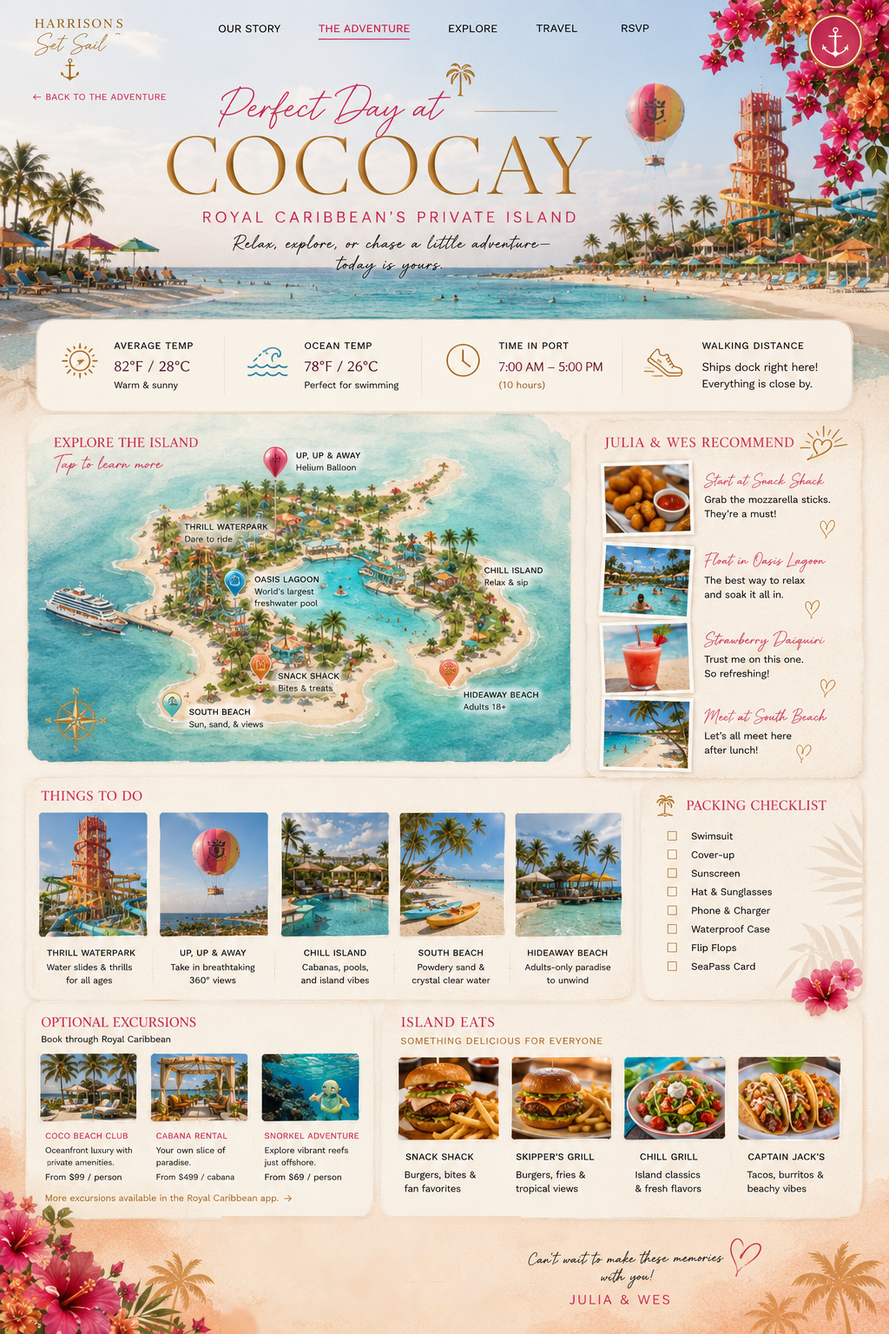
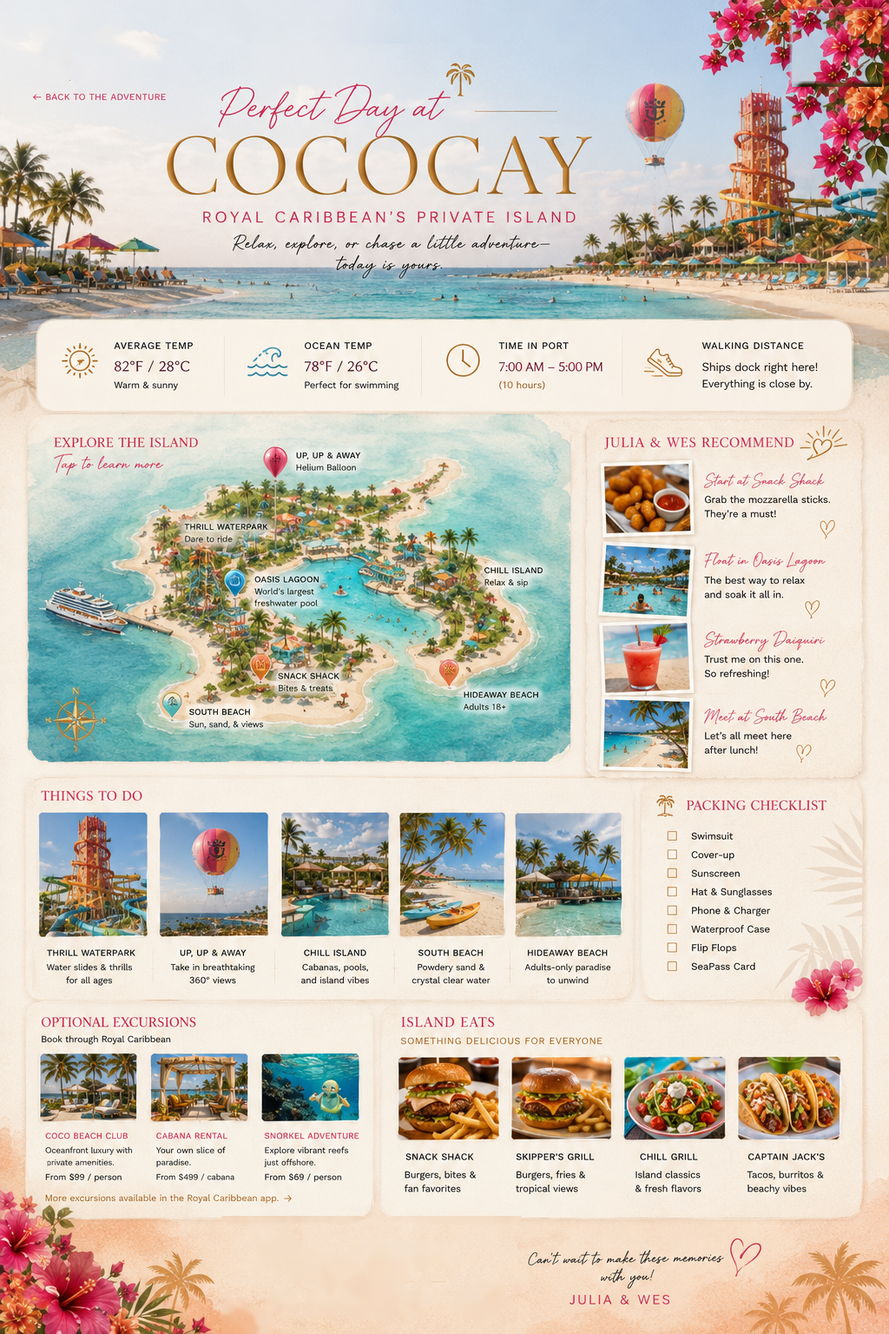
v34majorWHedits

diff --git a/travel.html b/travel.html
@@ -1,5 +1,5 @@
 <!doctype html><html lang="en"><head><meta charset="utf-8"><meta name="viewport" content="width=device-width,initial-scale=1"><title>Travel & Booking | Julia & Wesley</title>
-<link rel="preconnect" href="https://fonts.googleapis.com"><link rel="preconnect" href="https://fonts.gstatic.com" crossorigin><link href="https://fonts.googleapis.com/css2?family=Great+Vibes&family=Playfair+Display:ital,wght@0,600;0,700;1,600&display=swap" rel="stylesheet"><link rel="stylesheet" href="css/site.css?v=33">
+<link rel="preconnect" href="https://fonts.googleapis.com"><link rel="preconnect" href="https://fonts.gstatic.com" crossorigin><link href="https://fonts.googleapis.com/css2?family=Great+Vibes&family=Playfair+Display:ital,wght@0,600;0,700;1,600&display=swap" rel="stylesheet"><link rel="stylesheet" href="css/site.css?v=34">
 </head><body class="tv-body">
 <nav class="site-nav" aria-label="Primary navigation">
   <a class="sn-logo" href="index.html?skip=1"><span class="word">HARRISONS</span><span class="script">Set Sail</span><span class="anch">⚓</span></a>
@@ -9,6 +9,7 @@
 <main class="page-art"><img src="assets/approved/travel-hero-v2.png" alt="Let's Get You On Board — travel and booking for Julia and Wesley's wedding cruise"></main>
 
 <main class="tv-wrap">
+  <p class="tv-rsvp-note">🛳 This page is just for booking your cruise room — the wedding RSVP is on the <a href="rsvp.html">RSVP page</a>!</p>
   <div class="tv-row tv-row-steps">
     <section class="tv-card tv-step1">
       <p class="tv-step-label">Step 1</p>
@@ -27,18 +28,11 @@
         <article><img src="assets/staterooms/balcony.jpg" alt="Balcony stateroom"><h3>Balcony</h3><p>Private balcony perfect for soaking in the sea air and sunsets.</p><p class="tv-price">From <strong>$695</strong> per person*</p></article>
         <article><img src="assets/staterooms/suite.jpg" alt="Suite stateroom"><h3>Suite</h3><p>More space, premium location, and luxury amenities for the ultimate experience.</p><p class="tv-price">From <strong>$2,196</strong> per person*</p></article>
       </div>
-      <p class="tv-foot">*Prices shown are shown based on double occupancy.</p>
+      <p class="tv-foot">*Prices shown are shown based on double occupancy. Our travel advisor has negotiated a special group rate for our sailing on balcony and interior rooms, so guests who reserve swiftly do not pay more than the prices above for those rooms. This contracted rate is time-bound and based on ship availability. Royal Caribbean routinely offers promotions throughout the year including reduced fares, Kids Sail Free, onboard credit, and discounted deposits. Our travel advisor will always help you secure the best available group rate and applicable promotions at the time of your booking.</p>
     </section>
   </div>
 
   <div class="tv-row tv-row-info">
-    <section class="tv-card">
-      <h2 class="tv-h-pink">ⓘ Understanding Cruise Pricing</h2>
-      <p>Our travel advisor has <strong>negotiated a special group rate</strong> for our sailing, so you're already starting ahead.</p>
-      <p>Royal Caribbean routinely offers promotions throughout the year — including reduced fares, Kids Sail Free, onboard credit, and discounted deposits.</p>
-      <p>Depending on when you book, your actual cruise fare may be significantly lower than the prices shown here.</p>
-      <p>Our travel advisor will always help you secure the best available group rate and applicable promotions.</p>
-    </section>
     <section class="tv-card">
       <h2 class="tv-h-olive">✿ What's Included</h2>
       <div class="tv-icons tv-icons-in">
@@ -64,12 +58,12 @@
     <section class="tv-card">
       <h2 class="tv-h-pink">Payment Timeline</h2>
       <ul class="tv-timeline">
-        <li><strong>Deposit Due</strong><br>A deposit of $250 per person is required to secure your cabin.<br><em>Will you be able to attend, or would you like us to allow another guest the option to share this experience with us? We truly appreciate you letting us know your intention for attending within a week of receipt of this invitation, to allow those that can attend maximum time to prepare.</em></li>
+        <li><strong>Deposit Due</strong><br>A deposit of $250 per person is required to secure your cabin.</li>
         <li><strong>Final Payment — Due 10/12/2026</strong></li>
         <li><strong>Online Check-in</strong><br>Available 45 days prior to sailing.</li>
         <li><strong>Embarkation Day</strong><br>Let the adventure begin!</li>
       </ul>
-      <p class="tv-caution">Consider carefully if you can make the deadlines for deposits and final payments when deciding if you will be able to attend.</p>
+      <p class="tv-caution">Before reserving your cabin, please be sure the deposit and final payment schedule works for you. We want everyone joining us to feel comfortable and excited about the adventure ahead!</p>
     </section>
   </div>
 

diff --git a/adventure.html b/adventure.html
@@ -1,6 +1,14 @@
-<!doctype html><html lang="en"><head><meta charset="utf-8"><meta name="viewport" content="width=device-width,initial-scale=1"><title>The Adventure | Julia & Wesley</title><link rel="preconnect" href="https://fonts.googleapis.com"><link rel="preconnect" href="https://fonts.gstatic.com" crossorigin><link href="https://fonts.googleapis.com/css2?family=Great+Vibes&display=swap" rel="stylesheet"><link rel="stylesheet" href="css/site.css?v=33"></head><body><main class="page-shell"><img class="approved-page" src="assets/approved/adventure-v2.png" alt="The Adventure cruise itinerary">
-<a class="hotspot" aria-label="Our Story" href="our-story.html" style="left:31%;top:1%;width:11%;height:4%"></a><a class="hotspot" aria-label="The Adventure" href="adventure.html" style="left:42%;top:1%;width:14%;height:4%"></a><a class="hotspot" aria-label="Explore" href="explore.html" style="left:56%;top:1%;width:9%;height:4%"></a><a class="hotspot" aria-label="Travel" href="travel.html" style="left:66%;top:1%;width:8%;height:4%"></a><a class="hotspot" aria-label="RSVP" href="rsvp.html" style="left:74%;top:.5%;width:14%;height:5%"></a>
+<!doctype html><html lang="en"><head><meta charset="utf-8"><meta name="viewport" content="width=device-width,initial-scale=1"><title>The Adventure | Julia & Wesley</title><link rel="preconnect" href="https://fonts.googleapis.com"><link rel="preconnect" href="https://fonts.gstatic.com" crossorigin><link href="https://fonts.googleapis.com/css2?family=Great+Vibes&display=swap" rel="stylesheet"><link rel="stylesheet" href="css/site.css?v=34"></head><body>
+<nav class="site-nav" aria-label="Primary navigation">
+  <a class="sn-logo" href="index.html?skip=1"><span class="word">HARRISONS</span><span class="script">Set Sail</span><span class="anch">⚓</span></a>
+  <div class="sn-links"><a href="index.html?skip=1">Home</a><a href="our-story.html">Our Story</a><a href="adventure.html" aria-current="page">The Adventure</a><a href="explore.html">Explore</a><a href="travel.html">Travel</a><a href="rsvp.html">RSVP</a></div>
+  <a class="sn-badge" href="index.html?skip=1" aria-label="Home">⚓</a>
+</nav><main class="page-shell"><img class="approved-page" src="assets/approved/adventure-v2.png" alt="The Adventure cruise itinerary">
+
 <a class="adventure-hotspot adventure-bingo-link" aria-label="Open Bingo Adventure" href="bingo.html" title="Bingo Adventure"></a>
 <a class="adventure-hotspot adventure-pickleball-link" aria-label="Open Pickleball Tournament" href="pickleball.html" title="Pickleball Tournament"></a>
-<a class="hotspot" aria-label="CocoCay — view details" href="cococay.html" style="left:81.5%;top:62%;width:17%;height:3.2%"></a><a class="hotspot" aria-label="Wedding Day — view details" href="wedding-day.html" style="left:81.5%;top:75.1%;width:17%;height:3.2%"></a>
+<a class="hotspot" aria-label="Explore CocoCay" href="cococay.html" style="left:74%;top:62.8%;width:25%;height:2.6%"></a><a class="hotspot" aria-label="Sunrise Sparkle wedding ceremony — all the details" href="wedding-day.html" style="left:66.5%;top:66.4%;width:32%;height:5.6%"></a>
+<a class="hotspot" aria-label="Wedding day — view details" href="wedding-day.html" style="left:82%;top:73.5%;width:16.5%;height:1.8%"></a>
+<a class="hotspot" aria-label="Pickleball first round — Sunday Jan 24, 8 PM" href="pickleball.html" style="left:66%;top:52.4%;width:32%;height:1.9%"></a>
+<a class="hotspot" aria-label="Bingo game begins" href="bingo.html" style="left:66%;top:37.2%;width:26%;height:1.8%"></a>
 </main></body></html>

diff --git a/index.html b/index.html
@@ -1,11 +1,10 @@
 <!doctype html><html lang="en"><head><meta charset="utf-8"><meta name="viewport" content="width=device-width,initial-scale=1"><title>Julia & Wesley</title>
 <link rel="preconnect" href="https://fonts.googleapis.com"><link rel="preconnect" href="https://fonts.gstatic.com" crossorigin>
 <link href="https://fonts.googleapis.com/css2?family=Great+Vibes&family=Playfair+Display:ital,wght@0,600;0,700;1,600&display=swap" rel="stylesheet">
-<link rel="stylesheet" href="css/site.css?v=33"></head><body>
+<link rel="stylesheet" href="css/site.css?v=34"></head><body>
 
 <section class="gate3" id="welcome-gate" aria-labelledby="welcome-title">
   <div class="gate3-card">
-    <button class="gate3-close" id="gate-close" type="button" aria-label="Close and view the website">×</button>
     <img class="g3fl g3fl-tl" src="assets/florals/tl.png" alt="">
     <img class="g3fl g3fl-tr" src="assets/florals/tr.png" alt="">
     <img class="g3fl g3fl-bl" src="assets/florals/bl.png" alt="">
@@ -14,7 +13,7 @@
       <div class="g3-ornament">✿ <span class="anch">⚓</span> ✿</div>
       <h1 id="welcome-title">Welcome to Julia &amp; Wesley's<span class="script">Wedding Festival</span></h1>
       <div class="g3-div">✿</div>
-      <p class="g3-copy">We're so excited to share all the details for our wedding adventure. Including answering all questions along the way.</p>
+      <p class="g3-copy">We're so excited to share all the details for our wedding adventure. Including answering all your questions along the way.</p>
       <div class="g3-div">♡</div>
       <p class="g3-invited">Yes!! You're invited.</p>
       <div class="g3-heart">♥</div>
@@ -45,7 +44,7 @@
 
 <nav class="site-nav" aria-label="Primary navigation">
   <a class="sn-logo" href="index.html?skip=1"><span class="word">HARRISONS</span><span class="script">Set Sail</span><span class="anch">⚓</span></a>
-  <div class="sn-links"><a href="our-story.html">Our Story</a><a href="adventure.html">The Adventure</a><a href="explore.html">Explore</a><a href="travel.html">Travel</a><a href="rsvp.html">RSVP</a></div>
+  <div class="sn-links"><a href="index.html?skip=1" aria-current="page">Home</a><a href="our-story.html">Our Story</a><a href="adventure.html">The Adventure</a><a href="explore.html">Explore</a><a href="travel.html">Travel</a><a href="rsvp.html">RSVP</a></div>
   <a class="sn-badge" href="index.html?skip=1" aria-label="Home">⚓</a>
 </nav>
 <main class="page-shell landing-shell"><img class="approved-page" src="assets/approved/landing-page-v2.png" alt="Julia and Wesley wedding invitation landing page">
@@ -65,9 +64,9 @@
 (function () {
   var gate = document.getElementById('welcome-gate');
   var err = document.getElementById('welcome-error');
-  function dismiss() { gate.hidden = true; window.scrollTo(0, 0); }
+  function dismiss() { gate.hidden = true; document.body.style.overflow = ''; window.scrollTo(0, 0); }
+  document.body.style.overflow = 'hidden';
   try { if (new URLSearchParams(location.search).has('skip')) { dismiss(); return; } } catch (_) {}
-  document.getElementById('gate-close').addEventListener('click', dismiss);
   document.getElementById('welcome-form').addEventListener('submit', function (e) {
     e.preventDefault();
     var f = document.getElementById('first-name').value.trim();

diff --git a/rsvp.html b/rsvp.html
@@ -1,4 +1,4 @@
-<!doctype html><html lang="en"><head><meta charset="utf-8"><meta name="viewport" content="width=device-width,initial-scale=1"><title>RSVP | Julia & Wesley</title><link rel="preconnect" href="https://fonts.googleapis.com"><link rel="preconnect" href="https://fonts.gstatic.com" crossorigin><link href="https://fonts.googleapis.com/css2?family=Great+Vibes&family=Playfair+Display:ital,wght@0,600;0,700;1,600&display=swap" rel="stylesheet"><link rel="stylesheet" href="css/site.css?v=33"></head>
+<!doctype html><html lang="en"><head><meta charset="utf-8"><meta name="viewport" content="width=device-width,initial-scale=1"><title>RSVP | Julia & Wesley</title><link rel="preconnect" href="https://fonts.googleapis.com"><link rel="preconnect" href="https://fonts.gstatic.com" crossorigin><link href="https://fonts.googleapis.com/css2?family=Great+Vibes&family=Playfair+Display:ital,wght@0,600;0,700;1,600&display=swap" rel="stylesheet"><link rel="stylesheet" href="css/site.css?v=34"></head>
 <body class="rsvp2-body">
 <nav class="site-nav" aria-label="Primary navigation">
   <a class="sn-logo" href="index.html?skip=1"><span class="word">HARRISONS</span><span class="script">Set Sail</span><span class="anch">⚓</span></a>
@@ -52,6 +52,7 @@
     <p class="zelle-line"><span class="zelle">gifts@harrisonssetsail.com</span></p>
     <p>Please include your name in the memo</p>
     <p>because we are against random acts of untraceable generosity.</p>
+    <p class="gift-note">With limited cabin and luggage space, transporting physical gifts home would be quite the adventure. Please don't bring gifts aboard since we're just thrilled to celebrate with you.</p>
   </section>
 
   <div class="rsvp2-footer-anchor" aria-hidden="true">✿ ⚓ ✿</div>
@@ -206,9 +207,14 @@ async function sendWeddingForm(subject, data, type) {
     status.textContent = 'Sending your RSVP…';
     try {
       const how = await sendWeddingForm('Wedding RSVP', data, 'rsvp');
-      status.textContent = how === 'sent'
-        ? "You're on the guest list! We can't wait to celebrate with you. ⚓"
-        : 'Almost there — hit send in the email that just opened.';
+      const anyYes = !!guestsWrap.querySelector('.ev-btn.yes.on');
+      if (how !== 'sent') {
+        status.textContent = 'Almost there — hit send in the email that just opened.';
+      } else if (anyYes) {
+        status.textContent = "You're on the guest list! We can't wait to celebrate with you. ⚓";
+      } else {
+        status.textContent = "We'll miss celebrating with you, but we're so grateful to have you in our lives. 💛 A wedding is only one adventure, and we're looking forward to many more years of memories, laughter, and adventures together as friends.";
+      }
     } catch (_) {
       status.textContent = 'Hmm, that didn’t go through. Please try again.';
     }

diff --git a/explore.html b/explore.html
@@ -1,5 +1,10 @@
-<!doctype html><html lang="en"><head><meta charset="utf-8"><meta name="viewport" content="width=device-width,initial-scale=1"><title>Explore the Ship | Julia & Wesley</title><link rel="stylesheet" href="css/site.css?v=33"></head><body><main class="page-shell explore-shell"><div class="art-wrap"><img class="approved-page" src="assets/approved/explore-clean.png" alt="Explore the Ship approved design">
-<a class="hotspot" aria-label="Home" href="index.html?skip=1" style="left:14%;top:1%;width:10%;height:4%"></a><a class="hotspot" aria-label="Our Story" href="our-story.html" style="left:25%;top:1%;width:13%;height:4%"></a><a class="hotspot" aria-label="The Adventure" href="adventure.html" style="left:39%;top:1%;width:16%;height:4%"></a><a class="hotspot" aria-label="Explore" href="explore.html" style="left:56%;top:1%;width:10%;height:4%"></a><a class="hotspot" aria-label="Travel" href="travel.html" style="left:67%;top:1%;width:9%;height:4%"></a><a class="hotspot" aria-label="RSVP" href="rsvp.html" style="left:77%;top:.5%;width:13%;height:5%"></a>
+<!doctype html><html lang="en"><head><meta charset="utf-8"><meta name="viewport" content="width=device-width,initial-scale=1"><title>Explore the Ship | Julia & Wesley</title><link rel="preconnect" href="https://fonts.googleapis.com"><link rel="preconnect" href="https://fonts.gstatic.com" crossorigin><link href="https://fonts.googleapis.com/css2?family=Great+Vibes&family=Playfair+Display:ital,wght@0,600;0,700;1,600&display=swap" rel="stylesheet"><link rel="stylesheet" href="css/site.css?v=34"></head><body>
+<nav class="site-nav" aria-label="Primary navigation">
+  <a class="sn-logo" href="index.html?skip=1"><span class="word">HARRISONS</span><span class="script">Set Sail</span><span class="anch">⚓</span></a>
+  <div class="sn-links"><a href="index.html?skip=1">Home</a><a href="our-story.html">Our Story</a><a href="adventure.html">The Adventure</a><a href="explore.html" aria-current="page">Explore</a><a href="travel.html">Travel</a><a href="rsvp.html">RSVP</a></div>
+  <a class="sn-badge" href="index.html?skip=1" aria-label="Home">⚓</a>
+</nav><main class="page-shell explore-shell"><div class="art-wrap"><img class="approved-page" src="assets/approved/explore-clean.png" alt="Explore the Ship approved design">
+
 
 <a class="hotspot" aria-label="Dining on Harmony of the Seas (opens Royal Caribbean)" href="https://www.royalcaribbean.com/guides/best-restaurants-harmony-of-the-seas" target="_blank" rel="noopener" style="left:2.2%;top:29%;width:16%;height:15.4%"></a>
 <a class="hotspot" aria-label="Drinks on Harmony of the Seas (opens Royal Caribbean)" href="https://www.royalcaribbean.com/cruise-ships/harmony-of-the-seas/things-to-do" target="_blank" rel="noopener" style="left:19.5%;top:29%;width:15%;height:15.4%"></a>

diff --git a/bingo.html b/bingo.html
@@ -1,4 +1,9 @@
-<!doctype html><html lang="en"><head><meta charset="utf-8"><meta name="viewport" content="width=device-width,initial-scale=1"><title>Bingo | Julia & Wesley</title><link rel="stylesheet" href="css/site.css?v=33"></head><body><main class="page-shell"><img class="approved-page" src="assets/approved/bingo-v2.png" alt="Bingo approved design"><a class="hotspot" aria-label="Home" href="index.html?skip=1" style="left:14%;top:1%;width:10%;height:4%"></a><a class="hotspot" aria-label="Our Story" href="our-story.html" style="left:25%;top:1%;width:13%;height:4%"></a><a class="hotspot" aria-label="The Adventure" href="adventure.html" style="left:39%;top:1%;width:16%;height:4%"></a><a class="hotspot" aria-label="Explore" href="explore.html" style="left:56%;top:1%;width:10%;height:4%"></a><a class="hotspot" aria-label="Travel" href="travel.html" style="left:67%;top:1%;width:9%;height:4%"></a><a class="hotspot" aria-label="RSVP" href="rsvp.html" style="left:76%;top:.3%;width:15%;height:5%"></a>
+<!doctype html><html lang="en"><head><meta charset="utf-8"><meta name="viewport" content="width=device-width,initial-scale=1"><title>Bingo | Julia & Wesley</title><link rel="preconnect" href="https://fonts.googleapis.com"><link rel="preconnect" href="https://fonts.gstatic.com" crossorigin><link href="https://fonts.googleapis.com/css2?family=Great+Vibes&family=Playfair+Display:ital,wght@0,600;0,700;1,600&display=swap" rel="stylesheet"><link rel="stylesheet" href="css/site.css?v=34"></head><body>
+<nav class="site-nav" aria-label="Primary navigation">
+  <a class="sn-logo" href="index.html?skip=1"><span class="word">HARRISONS</span><span class="script">Set Sail</span><span class="anch">⚓</span></a>
+  <div class="sn-links"><a href="index.html?skip=1">Home</a><a href="our-story.html">Our Story</a><a href="adventure.html" aria-current="page">The Adventure</a><a href="explore.html">Explore</a><a href="travel.html">Travel</a><a href="rsvp.html">RSVP</a></div>
+  <a class="sn-badge" href="index.html?skip=1" aria-label="Home">⚓</a>
+</nav><main class="page-shell"><img class="approved-page" src="assets/approved/bingo-v2.png" alt="Bingo approved design">
 <div class="faq-hotspots" aria-label="Bingo FAQs">
 <button class="pb-faq" data-q="When does the game start?" data-a="The game goes live once we set sail! Play anytime during the cruise — matches update in real time on the leaderboard." style="left:4.2%;top:97.3%;width:17.2%;height:1.9%"></button>
 <button class="pb-faq" data-q="How do I submit my fact?" data-a="Your fun fact IS your entry — share it in the 'Your Bingo Clue' box when you RSVP. One surprising or funny fact about yourself is all it takes." style="left:22.5%;top:97.3%;width:17.2%;height:1.9%"></button>

diff --git a/wedding-day.html b/wedding-day.html
@@ -1,1 +1,8 @@
-<!doctype html><html lang="en"><head><meta charset="utf-8"><meta name="viewport" content="width=device-width,initial-scale=1"><title>Wedding Day | Julia & Wesley</title><link rel="stylesheet" href="css/site.css?v=33"></head><body><main class="page-shell"><img class="approved-page" src="assets/approved/wedding-day-v2.png" alt="Wedding Day approved design"><a class="hotspot" aria-label="Home" href="index.html?skip=1" style="left:14%;top:1%;width:10%;height:4%"></a><a class="hotspot" aria-label="Our Story" href="our-story.html" style="left:25%;top:1%;width:13%;height:4%"></a><a class="hotspot" aria-label="The Adventure" href="adventure.html" style="left:39%;top:1%;width:16%;height:4%"></a><a class="hotspot" aria-label="Explore" href="explore.html" style="left:56%;top:1%;width:10%;height:4%"></a><a class="hotspot" aria-label="Travel" href="travel.html" style="left:67%;top:1%;width:9%;height:4%"></a><a class="hotspot" aria-label="RSVP" href="rsvp.html" style="left:76%;top:.3%;width:15%;height:5%"></a></main></body></html>
+<!doctype html><html lang="en"><head><meta charset="utf-8"><meta name="viewport" content="width=device-width,initial-scale=1"><title>Wedding Day | Julia & Wesley</title><link rel="preconnect" href="https://fonts.googleapis.com"><link rel="preconnect" href="https://fonts.gstatic.com" crossorigin><link href="https://fonts.googleapis.com/css2?family=Great+Vibes&family=Playfair+Display:ital,wght@0,600;0,700;1,600&display=swap" rel="stylesheet"><link rel="stylesheet" href="css/site.css?v=34"></head><body>
+<nav class="site-nav" aria-label="Primary navigation">
+  <a class="sn-logo" href="index.html?skip=1"><span class="word">HARRISONS</span><span class="script">Set Sail</span><span class="anch">⚓</span></a>
+  <div class="sn-links"><a href="index.html?skip=1">Home</a><a href="our-story.html">Our Story</a><a href="adventure.html" aria-current="page">The Adventure</a><a href="explore.html">Explore</a><a href="travel.html">Travel</a><a href="rsvp.html">RSVP</a></div>
+  <a class="sn-badge" href="index.html?skip=1" aria-label="Home">⚓</a>
+</nav><main class="page-shell"><img class="approved-page" src="assets/approved/wedding-day-v2.png" alt="Wedding Day approved design"><a class="hotspot" aria-label="Room service — see how it works (Royal Caribbean)" href="https://www.royalcaribbean.com/cruise-dining/room-service" target="_blank" rel="noopener" style="left:51%;top:45.6%;width:16%;height:2%"></a>
+<a class="hotspot" aria-label="Room service menu and how it works (Royal Caribbean)" href="https://www.royalcaribbean.com/cruise-dining/room-service" target="_blank" rel="noopener" style="left:35%;top:93.2%;width:20%;height:1.8%"></a>
+</main></body></html>

diff --git a/pickleball.html b/pickleball.html
@@ -1,5 +1,10 @@
-<!doctype html><html lang="en"><head><meta charset="utf-8"><meta name="viewport" content="width=device-width,initial-scale=1"><title>The Dink Before I Do | Julia & Wesley</title><link rel="stylesheet" href="css/site.css?v=33"></head><body><main class="page-shell"><img class="approved-page" src="assets/approved/pickleball-v2.png" alt="The Dink Before I Do — wedding pickleball tournament">
-<a class="hotspot" aria-label="Home" href="index.html?skip=1" style="left:14%;top:1%;width:10%;height:4%"></a><a class="hotspot" aria-label="Our Story" href="our-story.html" style="left:25%;top:1%;width:13%;height:4%"></a><a class="hotspot" aria-label="The Adventure" href="adventure.html" style="left:39%;top:1%;width:16%;height:4%"></a><a class="hotspot" aria-label="Explore" href="explore.html" style="left:56%;top:1%;width:10%;height:4%"></a><a class="hotspot" aria-label="Travel" href="travel.html" style="left:67%;top:1%;width:9%;height:4%"></a><a class="hotspot" aria-label="RSVP" href="rsvp.html" style="left:76%;top:.3%;width:15%;height:5%"></a>
+<!doctype html><html lang="en"><head><meta charset="utf-8"><meta name="viewport" content="width=device-width,initial-scale=1"><title>The Dink Before I Do | Julia & Wesley</title><link rel="preconnect" href="https://fonts.googleapis.com"><link rel="preconnect" href="https://fonts.gstatic.com" crossorigin><link href="https://fonts.googleapis.com/css2?family=Great+Vibes&family=Playfair+Display:ital,wght@0,600;0,700;1,600&display=swap" rel="stylesheet"><link rel="stylesheet" href="css/site.css?v=34"></head><body>
+<nav class="site-nav" aria-label="Primary navigation">
+  <a class="sn-logo" href="index.html?skip=1"><span class="word">HARRISONS</span><span class="script">Set Sail</span><span class="anch">⚓</span></a>
+  <div class="sn-links"><a href="index.html?skip=1">Home</a><a href="our-story.html">Our Story</a><a href="adventure.html" aria-current="page">The Adventure</a><a href="explore.html">Explore</a><a href="travel.html">Travel</a><a href="rsvp.html">RSVP</a></div>
+  <a class="sn-badge" href="index.html?skip=1" aria-label="Home">⚓</a>
+</nav><main class="page-shell"><img class="approved-page" src="assets/approved/pickleball-v2.png" alt="The Dink Before I Do — wedding pickleball tournament">
+
 
 <button class="hotspot" id="pb-team-up" aria-label="Register as a team — jump to the form" style="left:5%;top:46.8%;width:15%;height:2.6%"></button>
 <button class="hotspot" id="pb-pair-up" aria-label="Pair me up — register with just your name" style="left:30%;top:46.8%;width:13%;height:2.6%"></button>

diff --git a/cococay.html b/cococay.html
@@ -1,1 +1,6 @@
-<!doctype html><html lang="en"><head><meta charset="utf-8"><meta name="viewport" content="width=device-width,initial-scale=1"><title>Perfect Day at CocoCay | Julia & Wesley</title><link rel="stylesheet" href="css/site.css?v=33"></head><body><main class="page-shell"><img class="approved-page" src="assets/approved/cococay-clean.png" alt="Perfect Day at CocoCay approved design"><a class="hotspot" aria-label="Home" href="index.html?skip=1" style="left:14%;top:1%;width:10%;height:4%"></a><a class="hotspot" aria-label="Our Story" href="our-story.html" style="left:25%;top:1%;width:13%;height:4%"></a><a class="hotspot" aria-label="The Adventure" href="adventure.html" style="left:39%;top:1%;width:16%;height:4%"></a><a class="hotspot" aria-label="Explore" href="explore.html" style="left:56%;top:1%;width:10%;height:4%"></a><a class="hotspot" aria-label="Travel" href="travel.html" style="left:67%;top:1%;width:9%;height:4%"></a><a class="hotspot" aria-label="RSVP" href="rsvp.html" style="left:76%;top:.3%;width:15%;height:5%"></a></main></body></html>
+<!doctype html><html lang="en"><head><meta charset="utf-8"><meta name="viewport" content="width=device-width,initial-scale=1"><title>Perfect Day at CocoCay | Julia & Wesley</title><link rel="preconnect" href="https://fonts.googleapis.com"><link rel="preconnect" href="https://fonts.gstatic.com" crossorigin><link href="https://fonts.googleapis.com/css2?family=Great+Vibes&family=Playfair+Display:ital,wght@0,600;0,700;1,600&display=swap" rel="stylesheet"><link rel="stylesheet" href="css/site.css?v=34"></head><body>
+<nav class="site-nav" aria-label="Primary navigation">
+  <a class="sn-logo" href="index.html?skip=1"><span class="word">HARRISONS</span><span class="script">Set Sail</span><span class="anch">⚓</span></a>
+  <div class="sn-links"><a href="index.html?skip=1">Home</a><a href="our-story.html">Our Story</a><a href="adventure.html" aria-current="page">The Adventure</a><a href="explore.html">Explore</a><a href="travel.html">Travel</a><a href="rsvp.html">RSVP</a></div>
+  <a class="sn-badge" href="index.html?skip=1" aria-label="Home">⚓</a>
+</nav><main class="page-shell"><img class="approved-page" src="assets/approved/cococay-clean.png" alt="Perfect Day at CocoCay approved design"></main></body></html>

diff --git a/css/site.css b/css/site.css
@@ -789,3 +789,33 @@ button.hotspot{background:none;border:0;padding:0;cursor:pointer}
 @media(max-width:760px){
   .neighborhood-panel{display:none !important}
 }
+
+/* ============================================================
+   v34 — uniform nav, mobile floral clearance, full-bleed RSVP,
+   opaque gate, travel note, phantom-tile fix
+   ============================================================ */
+/* gate: opaque backdrop, nothing visible behind, no bypass */
+.gate3{background:rgba(24,15,20,.93);backdrop-filter:blur(16px);-webkit-backdrop-filter:blur(16px)}
+
+/* RSVP full-bleed like Our Story */
+.rsvp2-shell{max-width:1600px}
+
+/* mobile: florals shrink and never sit under text */
+@media(max-width:760px){
+  .corner-florals .fl-tl,.corner-florals .fl-tr{width:88px}
+  .corner-florals .fl-bl,.corner-florals .fl-br{width:96px}
+  .rsvp2-head h1{max-width:70vw;margin-left:auto;margin-right:auto}
+  .gift-frame{padding:20px 12px 60px;max-width:calc(100% - 16px)}
+  .gift-frame p{max-width:78vw;margin-left:auto;margin-right:auto}
+  .g3fl-tl,.g3fl-tr{width:74px}
+  .g3fl-bl,.g3fl-br{width:84px}
+  .g3-footer{max-width:calc(100% - 90px);font-size:19px}
+  .story-inner{width:calc(100% - 8px)}
+  .story-inner h2,.story-copy{position:relative;z-index:3}
+}
+.gift-note{margin-top:10px!important;font-style:italic;color:#6c5c45}
+.tv-rsvp-note{background:#fdf8ee;border-radius:12px;padding:12px 16px;text-align:center;font:600 14.5px/1.4 Arial,sans-serif;color:#2f2a24;margin:0 0 16px;box-shadow:0 6px 16px rgba(0,0,0,.2)}
+.tv-rsvp-note a{color:var(--pink)}
+.tv-row-info{grid-template-columns:1.25fr 1fr}
+/* explore: cover baked panel fully (kills phantom slivers) */
+.neighborhood-panel{height:37.5%}

diff --git a/our-story.html b/our-story.html
@@ -1,4 +1,4 @@
-<!doctype html><html lang="en"><head><meta charset="utf-8"><meta name="viewport" content="width=device-width,initial-scale=1"><title>Our Story | Julia & Wesley</title><link rel="preconnect" href="https://fonts.googleapis.com"><link rel="preconnect" href="https://fonts.gstatic.com" crossorigin><link href="https://fonts.googleapis.com/css2?family=Great+Vibes&family=Playfair+Display:ital,wght@0,600;0,700;1,600&display=swap" rel="stylesheet"><link rel="stylesheet" href="css/site.css?v=33"></head><body>
+<!doctype html><html lang="en"><head><meta charset="utf-8"><meta name="viewport" content="width=device-width,initial-scale=1"><title>Our Story | Julia & Wesley</title><link rel="preconnect" href="https://fonts.googleapis.com"><link rel="preconnect" href="https://fonts.gstatic.com" crossorigin><link href="https://fonts.googleapis.com/css2?family=Great+Vibes&family=Playfair+Display:ital,wght@0,600;0,700;1,600&display=swap" rel="stylesheet"><link rel="stylesheet" href="css/site.css?v=34"></head><body>
 <nav class="site-nav" aria-label="Primary navigation">
   <a class="sn-logo" href="index.html?skip=1"><span class="word">HARRISONS</span><span class="script">Set Sail</span><span class="anch">⚓</span></a>
   <div class="sn-links"><a href="index.html?skip=1">Home</a><a href="our-story.html" aria-current="page">Our Story</a><a href="adventure.html">The Adventure</a><a href="explore.html">Explore</a><a href="travel.html">Travel</a><a href="rsvp.html">RSVP</a></div>

diff --git a/js/explore.js b/js/explore.js
@@ -14,5 +14,5 @@
  const stage=document.querySelector('#ship-interactive'),img=stage.querySelector('img'); let scale=1,rx=0,ry=0,down=false,x0=0,y0=0;
  const draw=()=>img.style.transform=`scale(${scale}) rotateX(${ry}deg) rotateY(${rx}deg)`;
  stage.addEventListener('wheel',e=>{e.preventDefault();scale=Math.max(1,Math.min(2.2,scale+(e.deltaY<0?.12:-.12)));draw()},{passive:false});
- stage.addEventListener('pointerdown',e=>{if(e.pointerType!=='mouse')return;down=true;x0=e.clientX;y0=e.clientY;stage.setPointerCapture(e.pointerId)});stage.addEventListener('pointermove',e=>{if(!down)return;rx=Math.max(-16,Math.min(16,rx+(e.clientX-x0)*.08));ry=Math.max(-9,Math.min(9,ry-(e.clientY-y0)*.05));x0=e.clientX;y0=e.clientY;draw()});['pointerup','pointercancel','pointerleave'].forEach(evt=>stage.addEventListener(evt,()=>down=false));
+ stage.addEventListener('pointerdown',e=>{if(e.pointerType!=='mouse')return;if(e.target.closest('.neighborhood'))return;down=true;x0=e.clientX;y0=e.clientY;});stage.addEventListener('pointermove',e=>{if(!down)return;rx=Math.max(-16,Math.min(16,rx+(e.clientX-x0)*.08));ry=Math.max(-9,Math.min(9,ry-(e.clientY-y0)*.05));x0=e.clientX;y0=e.clientY;draw()});['pointerup','pointercancel','pointerleave'].forEach(evt=>stage.addEventListener(evt,()=>down=false));
 })();
